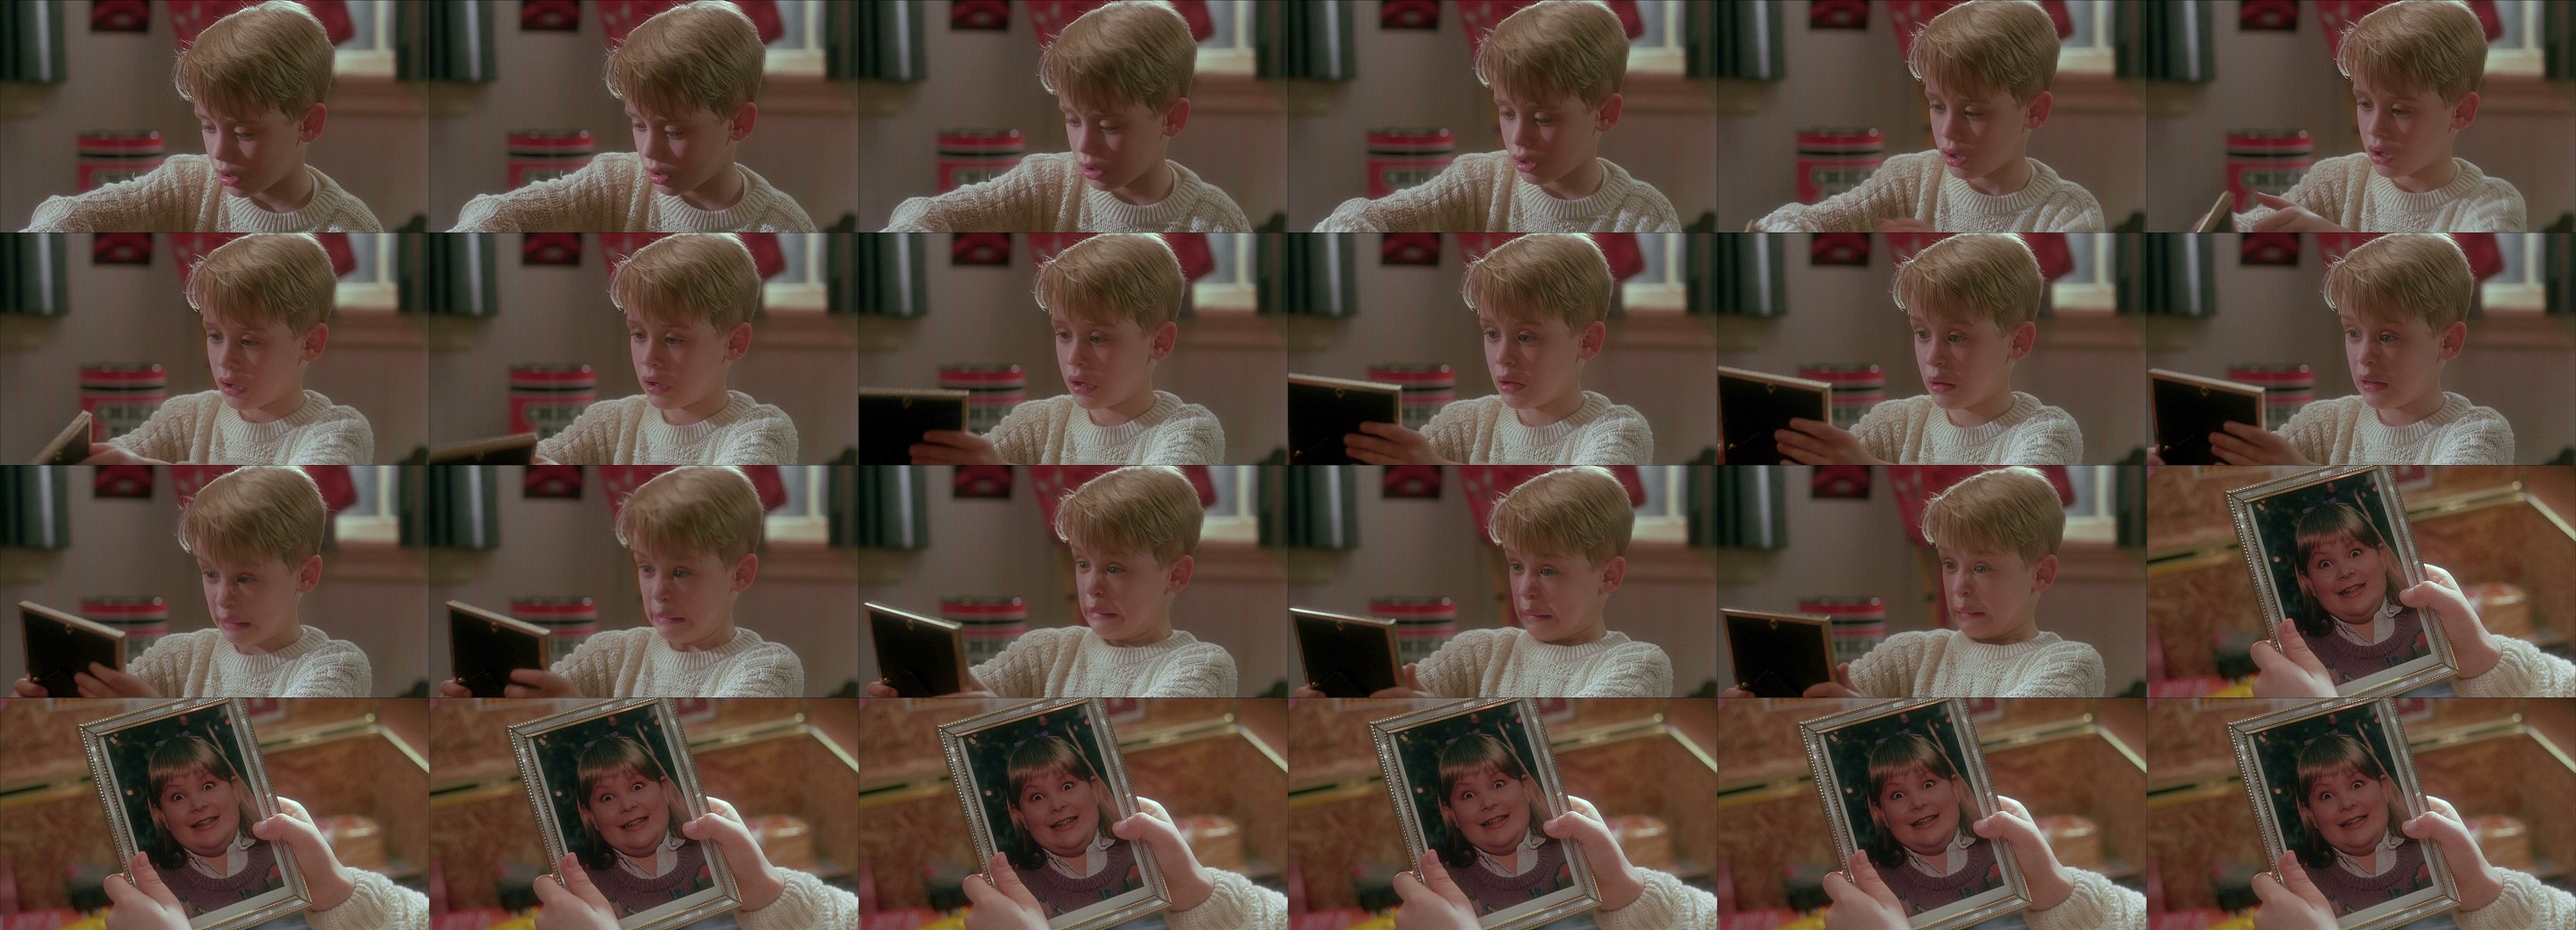
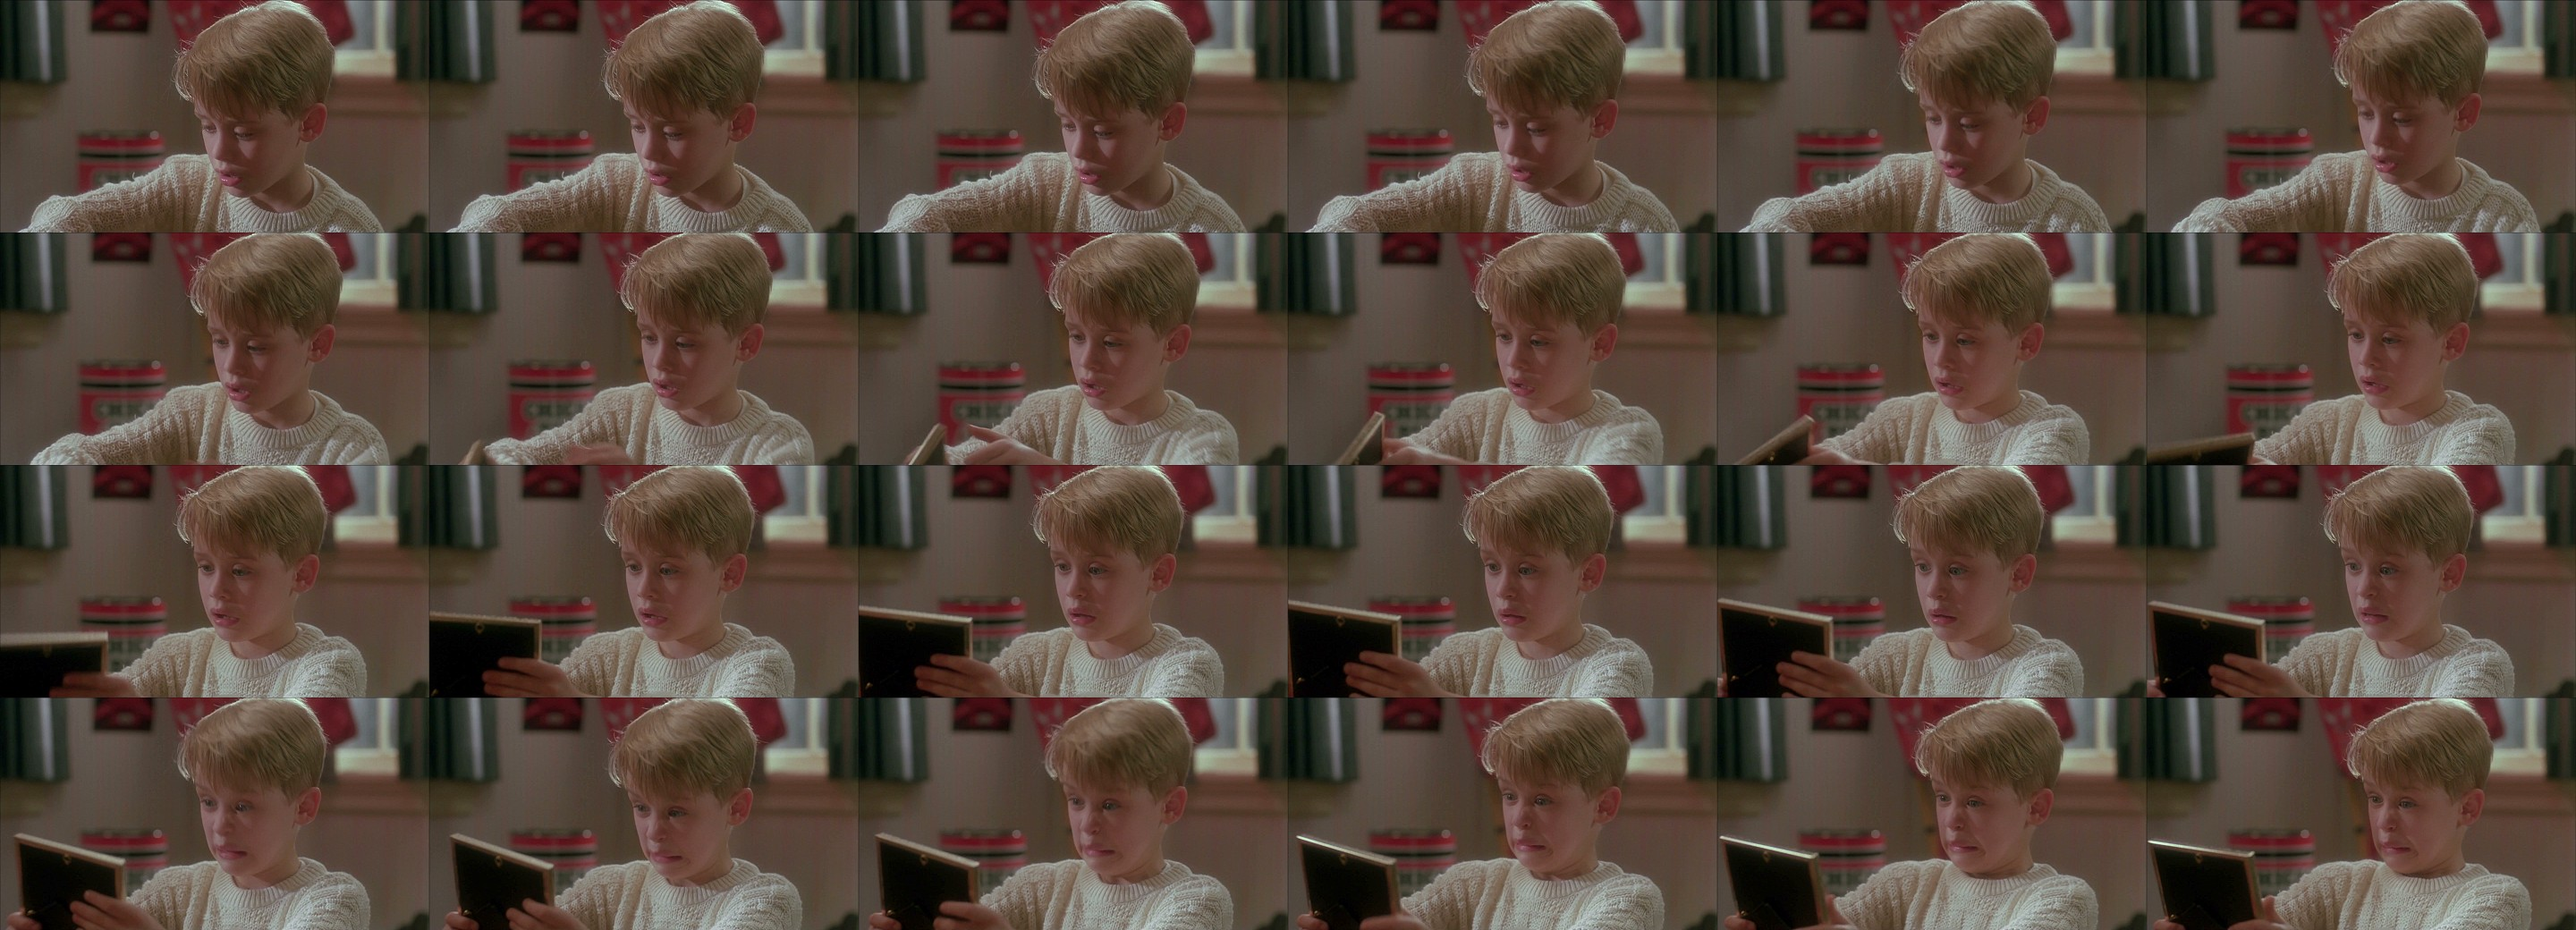
Smoother GIF: 12 fps, encoded in a single pass
- Scene rebuilt at 12 fps (83 frames) for smoother motion
- GIF is encoded once at 360px / 128 colours (about 1.1 MB); the size cap and
  its fallback presets are removed

diff --git a/public/js/gif-worker.js b/public/js/gif-worker.js
@@ -1,21 +1,12 @@
-// Encodes rendered frames into a looping GIF off the main thread, and keeps the
-// file under MAX_BYTES so it shares quickly everywhere.
+// Encodes rendered frames into a looping GIF off the main thread, in one pass.
 import { GIFEncoder, quantize, applyPalette } from '/vendor/gifenc.esm.js';
 
-const MAX_BYTES = 1_000_000;   // hard cap: under 1 MB
-
-// Tried in order until the GIF fits. The first one fits for almost every photo;
-// the rest trade a little size/colour for a guaranteed small file.
-//   width: GIF width in px   colors: palette size (power of 2)
-//   keep:  a pixel that changed by less than this per channel is left as-is
-const LADDER = [
-  { width: 360, colors: 128, keep: 12 },
-  { width: 360, colors: 128, keep: 18 },
-  { width: 320, colors: 128, keep: 14 },
-  { width: 320, colors: 64, keep: 16 },
-  { width: 280, colors: 64, keep: 18 },
-  { width: 240, colors: 64, keep: 20 },
-];
+const GIF_WIDTH = 360;   // px; the scene is rendered larger and scaled down
+const COLORS = 128;      // palette size per frame (power of 2)
+// A pixel that changed by less than this per channel since what's already on
+// screen is left as-is. Most of each frame is still, so this keeps the file
+// small (a typical GIF is a little over 1 MB).
+const KEEP = 12;
 
 // 4x4 ordered (Bayer) dither: a fixed, gentle pattern that breaks up colour
 // banding in gradients without the frame-to-frame shimmer of error diffusion.
@@ -82,26 +73,26 @@ function dither(rgba, width) {
   return out;
 }
 
-function encode(frames, sw, sh, { width, colors, keep }, onProgress) {
-  const w = Math.min(width, sw), h = Math.round(w * sh / sw), n = w * h;
+function encode(frames, sw, sh, onProgress) {
+  const w = Math.min(GIF_WIDTH, sw), h = Math.round(w * sh / sw), n = w * h;
   const resize = makeResizer(sw, sh, w, h);
-  const transparent = colors - 1;               // palette slot meaning "unchanged"
+  const transparent = COLORS - 1;               // palette slot meaning "unchanged"
   const gif = GIFEncoder();
   const shown = new Uint8ClampedArray(n * 3);   // what the viewer currently sees
   frames.forEach((f, k) => {
     const rgba = resize(new Uint8ClampedArray(f.buffer));
-    const palette = quantize(rgba, colors - 1);
+    const palette = quantize(rgba, COLORS - 1);
     const index = applyPalette(dither(rgba, w), palette);
-    while (palette.length < colors) palette.push([0, 0, 0]);
+    while (palette.length < COLORS) palette.push([0, 0, 0]);
     // Pixels that barely changed since the last frame stay transparent, so the
     // previous frame shows through. Most of each frame is still, so this is
     // where nearly all the file-size saving comes from.
     for (let p = 0; p < n; p++) {
       const c = palette[index[p]], i = p * 4, s = p * 3;
       if (k > 0 &&
-          Math.abs(rgba[i] - shown[s]) < keep &&
-          Math.abs(rgba[i + 1] - shown[s + 1]) < keep &&
-          Math.abs(rgba[i + 2] - shown[s + 2]) < keep) {
+          Math.abs(rgba[i] - shown[s]) < KEEP &&
+          Math.abs(rgba[i + 1] - shown[s + 1]) < KEEP &&
+          Math.abs(rgba[i + 2] - shown[s + 2]) < KEEP) {
         index[p] = transparent;
       } else {
         shown[s] = c[0]; shown[s + 1] = c[1]; shown[s + 2] = c[2];
@@ -118,10 +109,6 @@ function encode(frames, sw, sh, { width, colors, keep }, onProgress) {
 
 self.onmessage = ({ data }) => {
   const { frames, width, height } = data;
-  let result;
-  for (let a = 0; a < LADDER.length; a++) {
-    result = encode(frames, width, height, LADDER[a], progress => self.postMessage({ progress, attempt: a }));
-    if (result.bytes.length <= MAX_BYTES) break;
-  }
+  const result = encode(frames, width, height, progress => self.postMessage({ progress }));
   self.postMessage({ done: true, ...result }, [result.bytes.buffer]);
 };

diff --git a/public/js/app.js b/public/js/app.js
@@ -265,7 +265,7 @@ $('#make').addEventListener('click', async () => {
 
   const worker = new Worker('/js/gif-worker.js', { type: 'module' });
   worker.onmessage = ({ data }) => {
-    if (data.progress != null) setProgress(0.3 + data.progress * 0.7, data.attempt ? 'Making it smaller to share…' : 'Wrapping your GIF…');
+    if (data.progress != null) setProgress(0.3 + data.progress * 0.7, 'Wrapping your GIF…');
     if (data.done) {
       worker.terminate();
       state.gifBlob = new Blob([data.bytes], { type: 'image/gif' });

diff --git a/tools/build_scene.py b/tools/build_scene.py
@@ -21,7 +21,7 @@ import numpy as np
 START = "00:22:54.00"      # Kevin looks over and picks up the frame
 DURATION = 7.3             # seconds to pull from the movie
 END_AFTER_WOOF = 23 * 60 + 0.9   # stop just after Kevin says "Woof!"
-STEP = 3                   # keep every 3rd frame -> ~8 fps GIF (keeps the file small)
+STEP = 2                   # keep every 2nd frame -> ~12 fps GIF
 OUT_W = 480                # scene width in px (the GIF itself is scaled to 360)
 GAMMA = 0.85               # <1 brightens the (fairly dark) film frames
 SHARPEN = 0.6              # unsharp-mask strength applied after downscaling

diff --git a/README.md b/README.md
@@ -7,9 +7,9 @@ Live at **[woofmaker.org](https://www.woofmaker.org)**. A fan-made revival of th
 ## How it works
 
 - Everything happens in the visitor's browser. Their photo is never uploaded, and the server only serves static files.
-- `public/scene/` holds the pre-built scene (22:54 to 23:00.9 of the film, 8 fps, 480 px wide): a few small sprite sheets of the GIF frames, sprite sheets of Kevin's thumbs, and `scene.json` with the photo's four corners in every frame.
+- `public/scene/` holds the pre-built scene (22:54 to 23:00.9 of the film, 12 fps, 480 px wide): a few small sprite sheets of the GIF frames, sprite sheets of Kevin's thumbs, and `scene.json` with the photo's four corners in every frame.
 - `public/js/render.js` warps the visitor's photo into those corners (a perspective transform per frame), puts the thumbs back on top, adds film-style color and grain, and draws the captions.
-- `public/js/gif-worker.js` encodes the GIF in a Web Worker with [gifenc](https://github.com/mattdesl/gifenc). The GIF is 360 px wide and always under 1 MB: unchanged pixels are skipped between frames, and if a photo still makes the file too big the worker retries with smaller settings (the `LADDER` at the top of the file).
+- `public/js/gif-worker.js` encodes the GIF in a Web Worker with [gifenc](https://github.com/mattdesl/gifenc). The GIF is encoded once, at 360 px wide and 12 fps, and is usually a little over 1 MB because unchanged pixels are skipped between frames. The settings are the constants at the top of the file.
 
 ## Run locally
 
